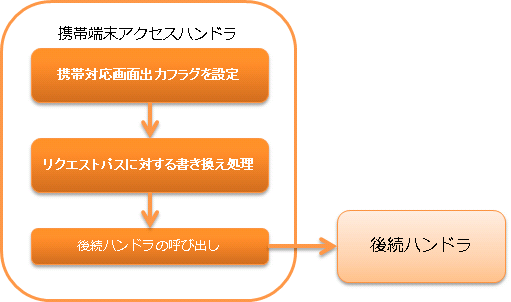
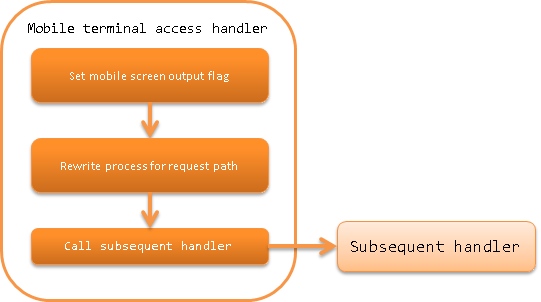
携帯端末アクセスハンドラページを英語化

diff --git a/en/application_framework/application_framework/handlers/web/keitai_access_handler.rst b/en/application_framework/application_framework/handlers/web/keitai_access_handler.rst
@@ -1,29 +1,29 @@
 .. _keitai_access_handler:
 
-携帯端末アクセスハンドラ
+Mobile Terminal Access Handler
 ==================================================
 
-.. contents:: 目次
+.. contents:: Table of contents
   :depth: 3
   :local:
 
 
-本ハンドラでは、いわゆる feature phone と呼ばれる携帯電話など、JavaScriptが動作しない環境で\
-ウェブアプリケーションを動作させるために、下記を実現する。
+This handler implements the following to operate a Web application in an environment where JavaScript does not work,
+such as the mobile phone (so called feature phone).
 
-* 画面で押されたボタンのボタン名から、想定されるURLにディスパッチする
-* JSP上にJavaScriptを出力しないよう変数を設定する
+* From the button name of the button pressed on the screen, dispatch to the expected URL
+* Configure the variables so that the JavaScript is not output on JSP
 
 
-処理の流れは以下のとおり。
+The process flow is as follows.
 
 .. image:: ../images/KeitaiAccessHandler/flow.png
 
-ハンドラクラス名
+Handler class name
 --------------------------------------------------
 * :java:extdoc:`nablarch.fw.web.handler.KeitaiAccessHandler`
 
-モジュール一覧
+Module list
 --------------------------------------------------
 .. code-block:: xml
 
@@ -32,53 +32,53 @@
     <artifactId>nablarch-fw-web</artifactId>
   </dependency>
 
-制約
+Constraints
 ------------------------------
 
-:ref:`http_response_handler` より後ろに配置すること
-  本ハンドラは、通常クライントからのJSP上にJavaScriptを出力しないよう変数を設定するため、\
-  JSPへのフォワード処理を行う :ref:`http_response_handler` より後に配置する必要がある。
+Place this handler after the :ref:`http_response_handler`
+  Since this handler normally configures variables so that JavaScript is not output on JSP from the client,
+  it must be placed after the :ref:`http_response_handler` that performs forward processing to JSP.
 
-:ref:`thread_context_handler` より前に配置すること
-  通常JSPが出力するJavaScriptで決定されるURIを決定する処理が含まれるため、\
-  URIを使用する :ref:`thread_context_handler` より前に配置する必要がある。
+Place this handler before the :ref:`thread_context_handler`
+  This handler must be placed before the :ref:`thread_context_handler` that uses URI, because it includes the process of determining the URI,
+  which is determined by JavaScript output by JSP.
 
-JavaScript出力が抑制されるタグ
+Tags that suppress the JavaScript output
 --------------------------------------------------
 
-携帯端末アクセスハンドラを使用したURLにアクセスした際は、 下記Nablarch
-タグライブラリが通常出力するJavaScriptが一切出力されなくなる。
+When accessing the URL using the mobile device access handler,
+the JavaScript normally output by the Nablarch tag library below will not be output at all.
 
- * :ref:`n:form タグ <tag-form_tag>`
- * :ref:`n:script タグ <tag-script_tag>`
- * :ref:`サブミット関連のタグ <tag_reference_submit>`
+ * :ref:`n:form tag <tag-form_tag>`
+ * :ref:`n:script tag <tag-script_tag>`
+ * :ref:`Tags associated with submit <tag_reference_submit>`
 
  .. important::
-   下記のタグは、元々想定していた機能が実現できないため、使用できなくなる。
+   The following tags cannot be used because the originally expected functions cannot be realized.
 
-   * :ref:`n:submitLink タグ <tag-submit_link_tag>`
+   * :ref:`n:submitLink tag <tag-submit_link_tag>`
 
-   n:submitLink タグの代替として、 n:a タグを使用すること。
-   特にリクエストパラメータについては、GETメソッドのパラメータで送信する必要がある。
+   Use n:a tag as an alternative to the n:submitLink tag.
+   Especially, request parameters must be sent as GET method parameters.
 
-URLの関連付け
+URL association
 --------------------
 
-携帯端末アクセスハンドラを適用した場合、下記の動作で、通常NablarchでJavaScriptで行っているformのURI属性の書き換えがサーバサイドで実施される。
+When the mobile device access handler is applied, rewriting of the form URI attribute, which is normally performed by JavaScript in Nablarch with the following operation, is done in the server.
 
-1. JSP表示時の動作
+1. Operation during JSP display
 
-  1.1. n:submit、 n:button を記載した個所で出力するHTMLのinputタグについて、 name 属性に設定する値を ``nablarch_uri_override_<JSP上のname属性>|<サブミット先のURI>`` に出力
+  1.1. Regarding the HTML input tag that is output at the location where n:submit, n:button is described, the value to be configured in the name attribute is output to ``nablarch_uri_override_<name attribute on JSP>|<URI of submit destination>``.
 
-  1.2. n:form タグでは、単純に HTML の <form> タグを出力する。\
-  つまり、ボタン押下時にはHTMLの<form>タグに記載したURLに押下したボタンのname属性が送られる。\
-  (通常、閉じタグの</form>には、押下したボタンに合わせたURLに <form> タグのuri属性を変更するJavaScriptが挿入される。)
+  1.2. In n:form tag, just an HTML <form> tag is output.
+  That is, when the button is pressed, the name attribute of the pressed button is sent to the URL described in the HTML <form> tag.
+  (Normally, in the close tag </form>, JavaScript that changes the URI attribute of the <form> tag is inserted in the URL that matches the pressed button.)
 
-2. form サブミット時の動作
+2. Operation during form submission
 
-  2.1. KeitaiAccessHandler にて、サブミット時に押下したボタンに設定された name 属性(1.1. で設定した  ``nablarch_uri_override_`` から始まる文字列)から、元のJSPタグに設定されていたURI属性を取得。
+  2.1. The KeitaiAccessHandler gets the URI attribute configured in the original JSP tag from the name attribute (string starting with ``nablarch_uri_override_`` configured in 1.1.) configured in the button pressed at the time of submission.
 
-  2.2. KeitaiAccessHandler にて、リクエストパラメータに処理対象のURIとして扱われるパラメータキー ``nablarch_submit`` で取得したURI属性を設定。
-  (つまり、通常NablarchでJavaScriptで行っているformのURI属性の書き換えを、サーバサードで実施している)
+  2.2. The KeitaiAccessHandler configures the URI attribute acquired by the parameter key ``nablarch_submit`` that is treated as the URI to be processed by the request parameter.
+  (That is, rewriting of the form URI attribute that is normally done by JavaScript in Nablarch, is executed in the server)
 
-  2.3. 後続処理に委譲する。(以降、クライアントからのリクエスト時にボタンに対応するURIが指定された場合と同じ動作をする)
+  2.3. Delegate to the subsequent process. (The subsequent operations are the same as when the URI corresponding to the button is specified by the request from the client)
